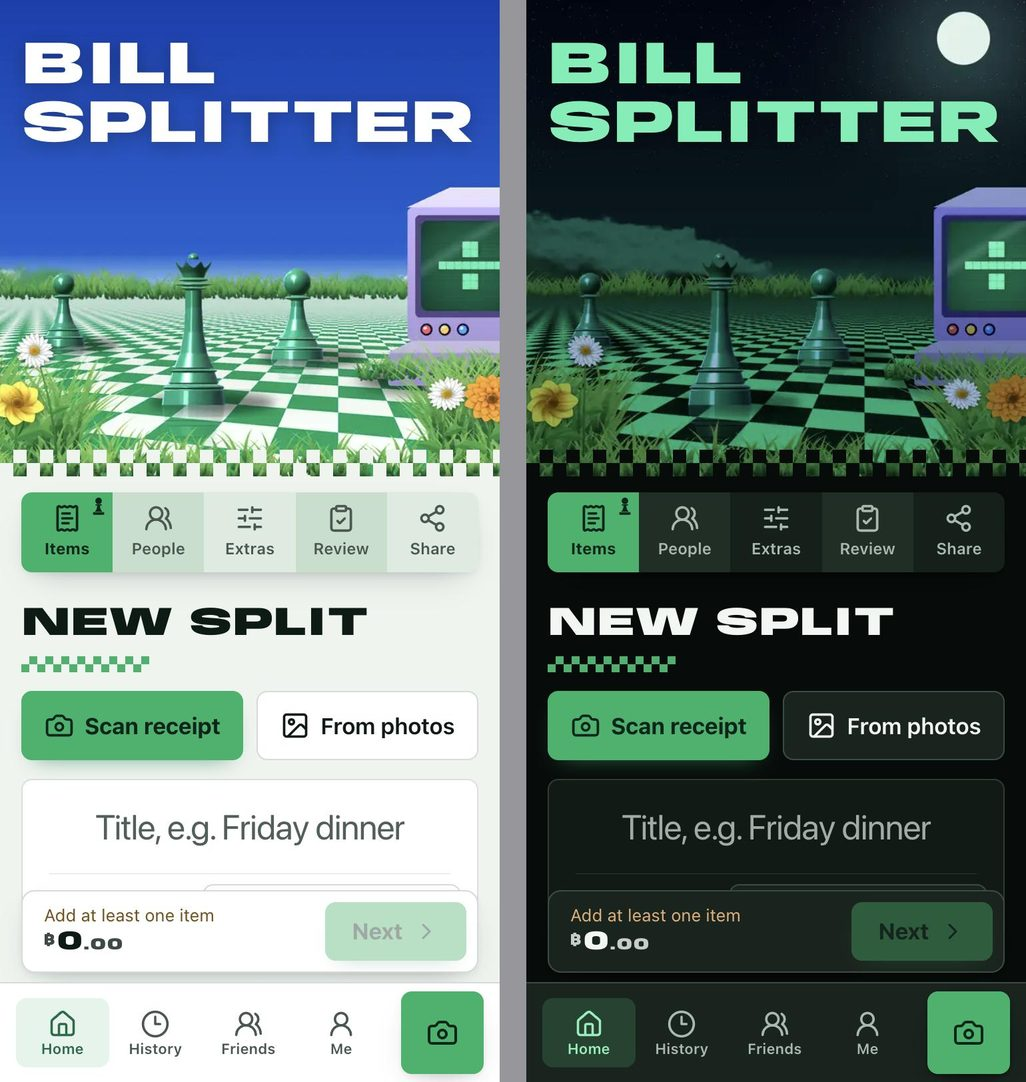
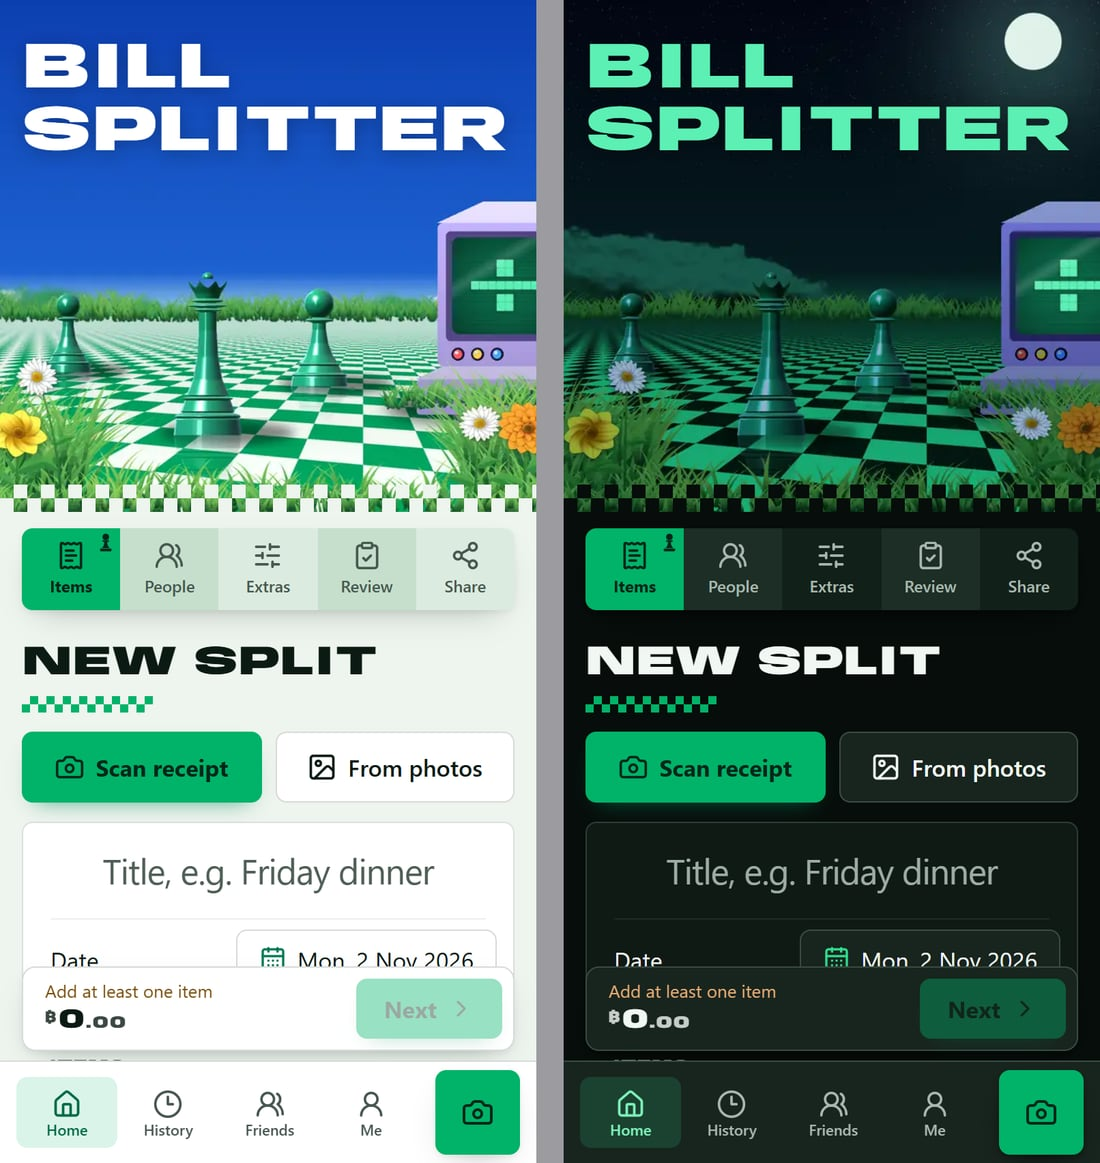
README: new screenshots of every main screen
Light and dark pairs at phone size on the current design, a fresh link
preview, and the scanning notes brought up to date.

diff --git a/README.md b/README.md
@@ -18,13 +18,15 @@ The link preview friends see in chat:
 ## Features
 
 **Making a split**
-- **Scan a receipt** (Thai or English) with Gemini: items, quantities, per-item discounts, receipt-wide discount, service charge, VAT, and the shop's name as the title. Service charge, VAT and any "rounding / ปัดเศษ" line are used exactly as printed, so the total matches the receipt. Warns when the items don't add up to the printed total.
+- **Scan a receipt** (Thai or English) with Gemini: items, quantities, per-item discounts, receipt-wide discount, service charge, VAT, and the shop's brand as the title. If one AI model misreads the photo, the next one tries before the scan gives up. Service charge, VAT and any "rounding / ปัดเศษ" line are used exactly as printed, so the total matches the receipt. Warns when the items don't add up to the printed total.
 - **Split equally or by item.** Items can be shared unevenly ("Mint had 2 of the 3 beers") or split into separate lines ("2× Water" → two bottles shared by different people).
 - **Discount, service charge, VAT** (off by default), and **round to whole baht**: friends pay whole amounts and together never less than their exact shares, so the organiser never loses money. With "split equally", everyone's share is the same whole amount.
 - **Leftover satang go to friends:** when an amount doesn't divide evenly (฿50 / 3), the organiser gets the smaller part (฿16.66, friends ฿16.67). New splits only; older bills keep their amounts.
 - **Several payers:** a friend who paid part of the bill (e.g. the drinks) either settles with you (pays that much less, or gets money back), or everyone pays each payer directly: the app works out the fewest transfers ("Ploy → Mint ฿150"), each with the payer's own PromptPay QR, its own tick and slip check.
 - **Bill date** with the app's own calendar: the day you make the split (scanning a receipt doesn't change it).
 - **Friends and groups** saved on the phone; "Who's eating with you?" and "Same as last time" pick them quickly.
+
+<img src="docs/screenshots/items.jpg" alt="Items on a new split, light and dark" width="380">
 
 **Sharing and getting paid**
 - **One link per bill**, with a link preview (date, title, the total on a paper receipt, the people) that refreshes when the bill is edited. Tap a person to see what they had.
@@ -34,6 +36,12 @@ The link preview friends see in chat:
 - **Big bills:** combine several bills from one outing (Food 1, Karaoke, Food 2) into one page with one total and one payment per friend, named after its bills ("Food 1 & Karaoke") unless you give it a title. Payments are spread over the bills; single bills can still be ticked on their own.
 - **Receipt photo** on the shared page (zoomable).
 
+<p>
+  <img src="docs/screenshots/rows.jpg" alt="Who owes what, with ticks and Pay buttons, light and dark" width="380">
+  <img src="docs/screenshots/pay.jpg" alt="Pay sheet with a PromptPay QR for the exact amount, light and dark" width="380">
+  <img src="docs/screenshots/bigbill.jpg" alt="A big bill combining two bills, light and dark" width="380">
+</p>
+
 **History and the phone**
 - **History**, newest bill date first, with big bills holding their bills; tap a person to see their splits and what they owe you (or you owe them). Tap yourself to see what you spent.
 - **Owed to you:** every friend who still owes you, with their total and unpaid bills (from History, on top of the History page). Tick a bill paid (in full or part) right there, or **Mark all paid** for a friend.
@@ -41,6 +49,13 @@ The link preview friends see in chat:
 - **Who still owes (shareable list):** one link (`/o/…`, with its own preview card) showing everyone who still owes you, A–Z, with all their unpaid bills; each person can **Pay** (one QR for their total) or upload a slip there. Copy or share it from "Owed to you".
 - **Friends** page: tap a friend to see their splits. Renaming a friend (or yourself) updates every bill you've shared, old ones too (friends typed into older bills are found by name).
 - **Backup and restore** (Me page) to move splits, friends and edit rights to a new phone.
+
+<p>
+  <img src="docs/screenshots/history.jpg" alt="History, light and dark" width="380">
+  <img src="docs/screenshots/owed.jpg" alt="Owed to you, with a link to share the list, light and dark" width="380">
+  <img src="docs/screenshots/owe.jpg" alt="What I owe on a friend's phone, light and dark" width="380">
+  <img src="docs/screenshots/list.jpg" alt="The shareable who still owes list, light and dark" width="380">
+</p>
 
 ## Tech
 
@@ -81,7 +96,7 @@ node scripts/smoke-prod.mts https://billsplitter-th.vercel.app [receipt.jpg]    
 
 - **Several payers** — `src/lib/settle.ts`: what each person paid at the table minus their share, then the fewest transfers (largest debts to largest credits). Transfer payments are recorded under `t:{from}:{to}` keys; History and big bills use each friend's money with the organiser.
 - **Maths** — `src/lib/calc.ts`, pure and integer-only (satang). Items → discount → service charge on the discounted subtotal → VAT on (subtotal + service). Shares use largest-remainder allocation, so everyone's amounts always add up exactly (in new splits the leftover units go to the friends, never the organiser); uneven shares are weights on the same allocation. Rounding, paid-upfront and the organiser's share are applied on top, never letting the organiser lose money.
-- **Scanning** — the phone fixes the photo's rotation and sends a ~2048 px JPEG to `POST /api/scan`. `src/lib/server/gemini.ts` races a chain of Gemini models (best first: 3.8 Flash, 3.7 Flash, 3.6 Flash, 3.5 Flash, 3.5 Flash-Lite, 3.1 Flash-Lite): the two best start together, others join when one fails or is slow, the first good answer wins. Busy, out-of-quota or timed-out models cool down (shared via Redis). Strict JSON schema, temperature 0, lowest thinking level. Results go through `src/lib/scanFilter.ts` and `applyScan`. See [`docs/scan-reliability.md`](docs/scan-reliability.md).
+- **Scanning** — the phone fixes the photo's rotation and sends a ~2048 px JPEG to `POST /api/scan`. `src/lib/server/gemini.ts` races a chain of Gemini models (best first: 3.8 Flash, 3.7 Flash, 3.6 Flash, 3.5 Flash, 3.5 Flash-Lite, 3.1 Flash-Lite): the best one and Flash-Lite start together, others join when one fails or is slow. Flash-Lite's answer is only taken straight away if its numbers add up. A garbled answer or a refused photo counts as that model failing; if a model finds no items, a second one is asked, and two agreeing settles it. Busy, out-of-quota or timed-out models cool down (shared via Redis). Strict JSON schema, temperature 0, lowest thinking level. Results go through `src/lib/scanFilter.ts` and `applyScan`. See [`docs/scan-reliability.md`](docs/scan-reliability.md).
 - **Sharing** — `POST /api/splits` → `{ id, token }`; only a SHA-256 of the edit token is stored. Splits live 90 days after the last activity. `/api/splits/{id}/paid` records payments (full, part or none; organiser only). Shared links carry `?v=` so chat apps refresh their preview after an edit; preview images come from `/api/og/s|e/{id}`.
 - **Slips** — `POST /api/splits/{id}/slip` (and `/api/events/{id}/slip`): read with Gemini, checked by `src/lib/slip.ts`, each slip reference can be used once.
 - **What I owe** — the organiser's phone tells the server which splits it made (`POST /api/organiser/claim`, each proven with its edit token, under a random phone id); `GET /api/splits/{id}/others` returns that organiser's other splits with the same person (by id or name).

diff --git a/docs/scan-reliability.md b/docs/scan-reliability.md
@@ -55,3 +55,16 @@ Same receipt, app-sized (2048 px, 564 KB), 10 requests 5 s apart:
 Every result: 10 items, ฿1,500 subtotal. The slow ones (12–18 s) had several models busy
 (503) or out of quota at once on the free tier; with a paid key the top models are
 answered first and faster.
+
+## Latest (2026-11-02): Flash-Lite races the best model, second opinions
+
+The best model and Flash-Lite now start together. One model's garbled answer, refused
+photo or "no items" no longer ends the scan: the next model is asked.
+
+Same receipt, 3 requests 8 s apart (a quick check, not the 10-request run above):
+
+| Success | Median | Answered by |
+|---|---|---|
+| **3/3** | **3.7 s** (3.4–3.9 s) | 3.5-flash-lite ×3 |
+
+Every result: 10 items, ฿1,500 subtotal.
